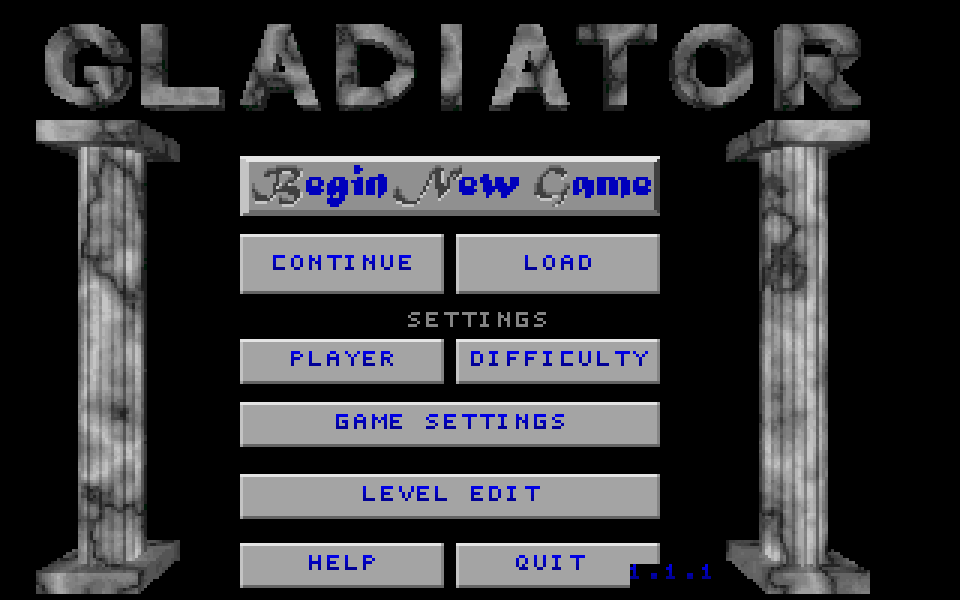
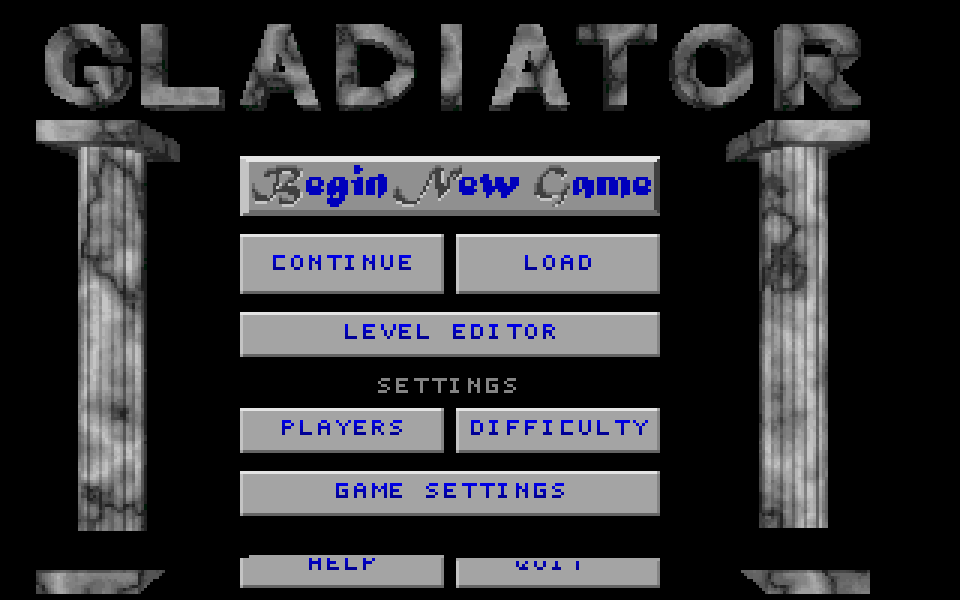
Refine main menu hierarchy

diff --git a/tests/e2e/wasm-game.spec.js b/tests/e2e/wasm-game.spec.js
@@ -266,9 +266,9 @@ async function openWebDisplayOptions(page) {
   await clickCanvasGameCoord(page, 10, 10);
 
   // Picker nav uses player 1's bindings: S/A/W and left Control, not browser
-  // arrow keys and Enter. From CONTINUE, PLAYER then GAME SETTINGS are two
-  // downward steps in the multiplayer web layout.
-  for (let i = 0; i < 2; ++i) {
+  // arrow keys and Enter. From CONTINUE, LEVEL EDITOR, PLAYERS, then GAME
+  // SETTINGS are three downward steps in the multiplayer web layout.
+  for (let i = 0; i < 3; ++i) {
     await pressPickerKey(page, 's');
   }
   await pressPickerKey(page, 'Control', 300);

diff --git a/src/interface/ui/menu_screen_specs.cpp b/src/interface/ui/menu_screen_specs.cpp
@@ -1042,23 +1042,20 @@ int main_menu_row_index(const button* buttons, int count, std::string_view id)
 // §2.1 nav rewire: CONTINUE (index 1) and LOAD (the appended row) share the
 // company gate, so the graph routes around them when no company exists. The
 // static graph is re-asserted when they are present, keeping the rewire
-// idempotent regardless of a prior frame's state. PLAYER and DIFFICULTY are
-// the two top-row settings buttons immediately below the pair.
+// idempotent regardless of a prior frame's state. LEVEL EDITOR is the first
+// stable row below the pair, so the absent-company shape routes through it.
 void main_menu_nav_rewire(button* buttons, int count, int& /*highlighted*/)
 {
     const int i_begin = main_menu_row_index(buttons, count, "begin_new_game");
     const int i_continue = main_menu_row_index(buttons, count, "continue_game");
-    const int i_player = main_menu_row_index(buttons, count, "player_settings");
-    const int i_difficulty = main_menu_row_index(buttons, count, "difficulty");
+    const int i_level_editor = main_menu_row_index(buttons, count, "level_edit");
 
     if (g_main_menu_company_view.present) {
         if (i_begin >= 0) buttons[i_begin].nav.down = i_continue;
-        if (i_player >= 0) buttons[i_player].nav.up = i_continue;
-        if (i_difficulty >= 0) buttons[i_difficulty].nav.up = i_continue;
+        if (i_level_editor >= 0) buttons[i_level_editor].nav.up = i_continue;
     } else {
-        if (i_begin >= 0) buttons[i_begin].nav.down = i_player;
-        if (i_player >= 0) buttons[i_player].nav.up = i_begin;
-        if (i_difficulty >= 0) buttons[i_difficulty].nav.up = i_begin;
+        if (i_begin >= 0) buttons[i_begin].nav.down = i_level_editor;
+        if (i_level_editor >= 0) buttons[i_level_editor].nav.up = i_begin;
     }
 }
 
@@ -1074,25 +1071,25 @@ constexpr MenuButtonSpec kMainMenuRowsMP[] = {
      .action = ButtonAction::CreateTeamMenu, .arg = -1,
      .nav = {.up = 0, .down = 2, .right = 8},
      .gate = {.gate = MenuGate::Custom, .custom = &main_menu_company_present}},
+    {.id = "level_edit", .label = "Level Editor",
+     .x = 80, .y = 104, .w = 140, .h = 15,
+     .action = ButtonAction::DoLevelEdit, .arg = -1,
+     .nav = {.up = 1, .down = 3}},
     // SETTINGS is a deliberate two-row group: the two compact session
     // categories share the first row, while the broader game/presentation
     // category gets the full-width second row.
-    {.id = "player_settings", .label = "PLAYER",
-     .x = 80, .y = 113, .w = 68, .h = 15,
+    {.id = "player_settings", .label = "PLAYERS",
+     .x = 80, .y = 136, .w = 68, .h = 15,
      .action = ButtonAction::MenuSpecRow, .arg = 2,
-     .nav = {.up = 1, .down = 4, .right = 3}},
+     .nav = {.up = 2, .down = 5, .right = 4}},
     {.id = "difficulty", .label = "DIFFICULTY",
-     .x = 152, .y = 113, .w = 68, .h = 15,
+     .x = 152, .y = 136, .w = 68, .h = 15,
      .action = ButtonAction::OpenDifficultyMenu, .arg = -1,
-     .nav = {.up = 1, .down = 4, .left = 2}},
+     .nav = {.up = 2, .down = 5, .left = 3}},
     {.id = "options", .label = "GAME SETTINGS",
-     .x = 80, .y = 134, .w = 140, .h = 15,
+     .x = 80, .y = 157, .w = 140, .h = 15,
      .action = ButtonAction::MainOptions, .arg = -1,
-     .nav = {.up = 2, .down = 5}},
-    {.id = "level_edit", .label = "Level Edit",
-     .x = 80, .y = 158, .w = 140, .h = 15,
-     .action = ButtonAction::DoLevelEdit, .arg = -1,
-     .nav = {.up = 4, .down = 6}},
+     .nav = {.up = 3, .down = 6}},
     {.id = "help", .label = "HELP",
      .x = 80, .y = 181, .w = 68, .h = 15,
      .action = ButtonAction::ShowHelp, .arg = -1,
@@ -1134,22 +1131,22 @@ constexpr MenuButtonSpec kMainMenuRowsNoMP[] = {
      .action = ButtonAction::CreateTeamMenu, .arg = -1,
      .nav = {.up = 0, .down = 2, .right = 8},
      .gate = {.gate = MenuGate::Custom, .custom = &main_menu_company_present}},
-    {.id = "player_settings", .label = "PLAYER",
-     .x = 80, .y = 113, .w = 68, .h = 15,
-     .action = ButtonAction::MenuSpecRow, .arg = 2,
-     .nav = {.up = 1, .down = 4, .right = 3}},
-    {.id = "difficulty", .label = "DIFFICULTY",
-     .x = 152, .y = 113, .w = 68, .h = 15,
-     .action = ButtonAction::OpenDifficultyMenu, .arg = -1,
-     .nav = {.up = 1, .down = 4, .left = 2}},
-    {.id = "options", .label = "GAME SETTINGS",
-     .x = 80, .y = 134, .w = 140, .h = 15,
-     .action = ButtonAction::MainOptions, .arg = -1,
-     .nav = {.up = 2, .down = 5}},
-    {.id = "level_edit", .label = "Level Edit",
-     .x = 80, .y = 158, .w = 140, .h = 15,
+    {.id = "level_edit", .label = "Level Editor",
+     .x = 80, .y = 104, .w = 140, .h = 15,
      .action = ButtonAction::DoLevelEdit, .arg = -1,
-     .nav = {.up = 4, .down = 6}},
+     .nav = {.up = 1, .down = 3}},
+    {.id = "player_settings", .label = "PLAYERS",
+     .x = 80, .y = 136, .w = 68, .h = 15,
+     .action = ButtonAction::MenuSpecRow, .arg = 2,
+     .nav = {.up = 2, .down = 5, .right = 4}},
+    {.id = "difficulty", .label = "DIFFICULTY",
+     .x = 152, .y = 136, .w = 68, .h = 15,
+     .action = ButtonAction::OpenDifficultyMenu, .arg = -1,
+     .nav = {.up = 2, .down = 5, .left = 3}},
+    {.id = "options", .label = "GAME SETTINGS",
+     .x = 80, .y = 157, .w = 140, .h = 15,
+     .action = ButtonAction::MainOptions, .arg = -1,
+     .nav = {.up = 3, .down = 6}},
     {.id = "help", .label = "HELP",
      .x = 80, .y = 181, .w = 68, .h = 15,
      .action = ButtonAction::ShowHelp, .arg = -1,
@@ -1219,9 +1216,9 @@ void main_menu_draw_content(void* /*screen_state*/)
         count++;
     }
 
-    // The category heading makes the asymmetric two-row settings group read
-    // as one unit instead of three unrelated main-menu actions.
-    game->text_normal.write_xy_center(160, 104, GREY, "%s", "SETTINGS");
+    // Center the category heading on the 140px menu column (x=80..220), not
+    // on the 320px canvas; the classic column art shifts this stack left.
+    game->text_normal.write_xy_center(150, 126, GREY, "%s", "SETTINGS");
 
     // On native builds, show the version number on the main menu. On
     // Emscripten/web builds the version is displayed elsewhere (the help UI).

diff --git a/tests/test_menu_engine.cpp b/tests/test_menu_engine.cpp
@@ -1744,16 +1744,16 @@ constexpr ExpectedSpecRow kMainMenuMPCommon[] = {
      ButtonAction::BeginMenu, 1, MenuNav{.down = 1}},
     {"continue_game", "CONTINUE", KEYSTATE_UNKNOWN, 80, 78, 68, 20,
      ButtonAction::CreateTeamMenu, -1, MenuNav{.up = 0, .down = 2, .right = 8}},
-    {"player_settings", "PLAYER", KEYSTATE_UNKNOWN, 80, 113, 68, 15,
+    {"level_edit", "Level Editor", KEYSTATE_UNKNOWN, 80, 104, 140, 15,
+     ButtonAction::DoLevelEdit, -1, MenuNav{.up = 1, .down = 3}},
+    {"player_settings", "PLAYERS", KEYSTATE_UNKNOWN, 80, 136, 68, 15,
      ButtonAction::MenuSpecRow, 2,
-     MenuNav{.up = 1, .down = 4, .right = 3}},
-    {"difficulty", "DIFFICULTY", KEYSTATE_UNKNOWN, 152, 113, 68, 15,
+     MenuNav{.up = 2, .down = 5, .right = 4}},
+    {"difficulty", "DIFFICULTY", KEYSTATE_UNKNOWN, 152, 136, 68, 15,
      ButtonAction::OpenDifficultyMenu, -1,
-     MenuNav{.up = 1, .down = 4, .left = 2}},
-    {"options", "GAME SETTINGS", KEYSTATE_UNKNOWN, 80, 134, 140, 15,
-     ButtonAction::MainOptions, -1, MenuNav{.up = 2, .down = 5}},
-    {"level_edit", "Level Edit", KEYSTATE_UNKNOWN, 80, 158, 140, 15,
-     ButtonAction::DoLevelEdit, -1, MenuNav{.up = 4, .down = 6}},
+     MenuNav{.up = 2, .down = 5, .left = 3}},
+    {"options", "GAME SETTINGS", KEYSTATE_UNKNOWN, 80, 157, 140, 15,
+     ButtonAction::MainOptions, -1, MenuNav{.up = 3, .down = 6}},
     {"help", "HELP", KEYSTATE_UNKNOWN, 80, 181, 68, 15,
      ButtonAction::ShowHelp, -1,
      MenuNav{.up = 5, .down = 0, .right = 7}},
@@ -1830,7 +1830,7 @@ TEST(MenuEngine, main_menu_registry_and_spec_shape)
     button* buttons = spec.buttons_accessor();
     const int count = spec.count_accessor();
     ASSERT_GT(count, 2);
-    EXPECT_EQ(4, picker_mainmenu_options_index());
+    EXPECT_EQ(5, picker_mainmenu_options_index());
     EXPECT_EQ("options", buttons[picker_mainmenu_options_index()].id);
     EXPECT_EQ("load_company", buttons[count - 2].id);
     EXPECT_EQ("no_company_note", buttons[count - 1].id);
@@ -1875,8 +1875,8 @@ TEST(MenuEngine, player_settings_registry_and_variant_shapes)
     // The main surface opens the nested screen through the engine's one
     // generic row action instead of burning another ButtonAction value.
     const og::ui::MenuScreenSpec& main = og::ui::main_menu_screen_spec_mp();
-    EXPECT_STREQ("player_settings", main.rows[2].id);
-    EXPECT_EQ(ButtonAction::MenuSpecRow, main.rows[2].action);
+    EXPECT_STREQ("player_settings", main.rows[3].id);
+    EXPECT_EQ(ButtonAction::MenuSpecRow, main.rows[3].action);
     EXPECT_NE(nullptr, main.on_spec_row);
 }
 
@@ -2043,14 +2043,14 @@ TEST(MenuEngine, main_menu_company_gate_and_nav_rewire)
     };
     const int i_begin = index_of("begin_new_game");
     const int i_continue = index_of("continue_game");
-    const int i_player_settings = index_of("player_settings");
+    const int i_level_editor = index_of("level_edit");
 
     // Absent: mimic the gate pass (mark the pair hidden), then rewire.
     for (auto& b : buttons)
         if (std::string_view(b.id) == "continue_game"
             || std::string_view(b.id) == "load_company")
             b.hidden = true;
-    int highlighted = i_player_settings;
+    int highlighted = i_level_editor;
     mp.nav.rewire(buttons.data(), count, highlighted);
     for (int i = 0; i < count; ++i) {
         if (buttons[i].hidden)
@@ -2063,8 +2063,8 @@ TEST(MenuEngine, main_menu_company_gate_and_nav_rewire)
                 << buttons[i].id << " must not nav into a hidden row";
         }
     }
-    EXPECT_EQ(i_player_settings, buttons[i_begin].nav.down)
-        << "begin.down routes past the hidden pair to PLAYER SETTINGS";
+    EXPECT_EQ(i_level_editor, buttons[i_begin].nav.down)
+        << "begin.down routes past the hidden pair to LEVEL EDITOR";
 
     // Present again: the rewire re-asserts begin.down -> continue_game.
     og::ui::set_main_menu_company_view_for_tests(true, "");

diff --git a/tests/test_menu_pins.cpp b/tests/test_menu_pins.cpp
@@ -103,18 +103,18 @@ static const ExpectedButton kExpectedMainMenu[] = {
     {"continue_game", "CONTINUE", KEYSTATE_UNKNOWN, 80, 78, 68, 20,
      button_action_id(ButtonAction::CreateTeamMenu), -1,
      MenuNav{.up = 0, .down = 2, .right = 8}},
-    {"player_settings", "PLAYER", KEYSTATE_UNKNOWN, 80, 113, 68, 15,
-     button_action_id(ButtonAction::MenuSpecRow), 2,
-     MenuNav{.up = 1, .down = 4, .right = 3}},
-    {"difficulty", "DIFFICULTY", KEYSTATE_UNKNOWN, 152, 113, 68, 15,
-     button_action_id(ButtonAction::OpenDifficultyMenu), -1,
-     MenuNav{.up = 1, .down = 4, .left = 2}},
-    {"options", "GAME SETTINGS", KEYSTATE_UNKNOWN, 80, 134, 140, 15,
-     button_action_id(ButtonAction::MainOptions), -1,
-     MenuNav{.up = 2, .down = 5}},
-    {"level_edit", "Level Edit", KEYSTATE_UNKNOWN, 80, 158, 140, 15,
+    {"level_edit", "Level Editor", KEYSTATE_UNKNOWN, 80, 104, 140, 15,
      button_action_id(ButtonAction::DoLevelEdit), -1,
-     MenuNav{.up = 4, .down = 6}},
+     MenuNav{.up = 1, .down = 3}},
+    {"player_settings", "PLAYERS", KEYSTATE_UNKNOWN, 80, 136, 68, 15,
+     button_action_id(ButtonAction::MenuSpecRow), 2,
+     MenuNav{.up = 2, .down = 5, .right = 4}},
+    {"difficulty", "DIFFICULTY", KEYSTATE_UNKNOWN, 152, 136, 68, 15,
+     button_action_id(ButtonAction::OpenDifficultyMenu), -1,
+     MenuNav{.up = 2, .down = 5, .left = 3}},
+    {"options", "GAME SETTINGS", KEYSTATE_UNKNOWN, 80, 157, 140, 15,
+     button_action_id(ButtonAction::MainOptions), -1,
+     MenuNav{.up = 3, .down = 6}},
     {"help", "HELP", KEYSTATE_UNKNOWN, 80, 181, 68, 15,
      button_action_id(ButtonAction::ShowHelp), -1,
      MenuNav{.up = 5, .down = 0, .right = 7}},
@@ -144,7 +144,8 @@ TEST(MenuEnginePins, mainmenu_exact_table)
     // appended tail; GAME SETTINGS is the full-width settings-group row.
     ASSERT_EQ("no_company_note", buttons[count - 1].id);
     ASSERT_EQ("load_company", buttons[count - 2].id);
-    ASSERT_EQ("options", buttons[4].id);
+    ASSERT_EQ("level_edit", buttons[2].id);
+    ASSERT_EQ("options", buttons[5].id);
     ASSERT_EQ("help", buttons[6].id);
     ASSERT_EQ("quit", buttons[7].id);
 }

diff --git a/tests/test_menu_layout.cpp b/tests/test_menu_layout.cpp
@@ -199,18 +199,22 @@ TEST(MenuLayout, mainmenu_buttons_no_overlap)
     // Primary actions retain the established 6px gap.
     EXPECT_EQ(6, buttons[1].y - (buttons[0].y + buttons[0].sizey));
 
+    // LEVEL EDITOR is the next primary action at the standard 6px gap.
+    EXPECT_EQ("level_edit", buttons[2].id);
+    EXPECT_EQ(6, buttons[2].y - (buttons[1].y + buttons[1].sizey));
+
     // SETTINGS: equal compact top-row faces, a 4px gutter, then a centered
     // full-width GAME SETTINGS face with the normal 6px vertical gap.
-    EXPECT_EQ("player_settings", buttons[2].id);
-    EXPECT_EQ("difficulty", buttons[3].id);
-    EXPECT_EQ(buttons[2].y, buttons[3].y);
-    EXPECT_EQ(buttons[2].sizex, buttons[3].sizex);
-    EXPECT_EQ(4, buttons[3].x - (buttons[2].x + buttons[2].sizex));
-    EXPECT_EQ("options", buttons[4].id);
-    EXPECT_EQ(buttons[2].x, buttons[4].x);
-    EXPECT_EQ(buttons[3].x + buttons[3].sizex,
-              buttons[4].x + buttons[4].sizex);
-    EXPECT_EQ(6, buttons[4].y - (buttons[2].y + buttons[2].sizey));
+    EXPECT_EQ("player_settings", buttons[3].id);
+    EXPECT_EQ("difficulty", buttons[4].id);
+    EXPECT_EQ(buttons[3].y, buttons[4].y);
+    EXPECT_EQ(buttons[3].sizex, buttons[4].sizex);
+    EXPECT_EQ(4, buttons[4].x - (buttons[3].x + buttons[3].sizex));
+    EXPECT_EQ("options", buttons[5].id);
+    EXPECT_EQ(buttons[3].x, buttons[5].x);
+    EXPECT_EQ(buttons[4].x + buttons[4].sizex,
+              buttons[5].x + buttons[5].sizex);
+    EXPECT_EQ(6, buttons[5].y - (buttons[3].y + buttons[3].sizey));
 
     // HELP and QUIT are a stable, aligned footer pair.
     EXPECT_EQ("help", buttons[6].id);
@@ -218,6 +222,7 @@ TEST(MenuLayout, mainmenu_buttons_no_overlap)
     EXPECT_EQ(buttons[6].y, buttons[7].y);
     EXPECT_EQ(buttons[6].sizex, buttons[7].sizex);
     EXPECT_EQ(4, buttons[7].x - (buttons[6].x + buttons[6].sizex));
+    EXPECT_EQ(9, buttons[6].y - (buttons[5].y + buttons[5].sizey));
 }
 
 TEST(MenuLayout, player_settings_buttons_are_centered_and_reachable)

diff --git a/tests/test_menu_model.cpp b/tests/test_menu_model.cpp
@@ -32,6 +32,11 @@ TEST(MenuModel, main_definition_and_lookup)
     ASSERT_TRUE(begin != nullptr) << "begin_new_game id should resolve";
     ASSERT_EQ(static_cast<int>(PickerMenuCommand::BeginNewGame), static_cast<int>(begin->command)) << "begin_new_game should map to BeginNewGame command";
 
+    const PickerMenuItem* level_editor =
+        find_picker_menu_item(PickerMenuId::Main, "level_edit");
+    ASSERT_NE(nullptr, level_editor);
+    EXPECT_EQ("Level Editor", level_editor->label);
+
     const PickerMenuItem* networking = find_picker_menu_item(PickerMenuId::Main, "networking");
     ASSERT_TRUE(networking == nullptr) << "networking should now live in the team build menu";
 

diff --git a/src/interface/ui/menu_model.cpp b/src/interface/ui/menu_model.cpp
@@ -24,7 +24,7 @@ constexpr std::array<PickerMenuItem, 13> kMainMenuItems = {{
     // (kDifficultyMenuItems below); the in-place cycle moved in there.
     {"difficulty", "Difficulty", PickerMenuCommand::OpenDifficultyMenu},
     {"pvp_allied", "PVP Mode", PickerMenuCommand::ToggleAlliedMode},
-    {"level_edit", "Level Edit", PickerMenuCommand::LevelEdit},
+    {"level_edit", "Level Editor", PickerMenuCommand::LevelEdit},
     {"options", "Game Settings", PickerMenuCommand::Options},
     // HELP and QUIT are separate, stable footer actions on the graphical
     // menu. Text clients expose both too; the browser's disabled QUIT face

diff --git a/src/platform/curses/curses_picker_client.cpp b/src/platform/curses/curses_picker_client.cpp
@@ -788,7 +788,7 @@ void CursesPickerClient::handle_menu_item(PickerMenuId menu_id,
             autosave_company_after_mutation(save_data_);
             break;
         case PickerMenuCommand::LevelEdit:
-            menu.show_text("Level Edit",
+            menu.show_text("Level Editor",
                 {"The level editor is not available in the curses client.",
                  "Use the standalone 'openscen' tool instead."});
             break;

diff --git a/src/platform/text/text_picker.cpp b/src/platform/text/text_picker.cpp
@@ -655,7 +655,7 @@ private:
             autosave_company_after_mutation();
             break;
         case PickerMenuCommand::LevelEdit:
-            std::printf("Level Edit is not available in the headless text client.\n");
+            std::printf("Level Editor is not available in the headless text client.\n");
             break;
         default:
             break;

diff --git a/docs/menu-engine.md b/docs/menu-engine.md
@@ -22,7 +22,7 @@ window. Keep this table in sync with the registry:
 | PLAYER SETTINGS | **Engine** | `player_settings_menu_screen_spec()` from the main-menu door — local player-count selector, PVP relationship, the CONTROLS door, and RESET CONTROLS; multiplayer-disabled builds retain the latter two |
 | CONTROLS | **Engine** | `control_options_menu_screen_spec()` via `main_controls_options()` from PLAYER SETTINGS; its wrapper persists control modes/keymaps on exit |
 | GAME SETTINGS | **Engine** | `main_options_menu_screen_spec()` via `main_options()` — sound, display, effects, and RESTORE SETTINGS; the reset preserves player controls and the wrapper keeps the family-wide cfg-persist exit epilogue |
-| Main menu | **Engine** | `main_menu_screen_spec()` via `mainmenu()` — one centered primary stack shared by the §1.6 MP/no-MP spec pair; a labeled 2+1 SETTINGS group (PLAYER / DIFFICULTY over GAME SETTINGS); stable HELP / QUIT footer with build-gated enabled/disabled QUIT; `FadeWithInitialDraw` entry, MainScope remote-start with `BreakWithSelection`, and the G14 full-re-vdisplay content hook |
+| Main menu | **Engine** | `main_menu_screen_spec()` via `mainmenu()` — one centered primary stack shared by the §1.6 MP/no-MP spec pair; LEVEL EDITOR immediately below CONTINUE / LOAD; a centered 2+1 SETTINGS group (PLAYERS / DIFFICULTY over GAME SETTINGS); stable HELP / QUIT footer with build-gated enabled/disabled QUIT; `FadeWithInitialDraw` entry, MainScope remote-start with `BreakWithSelection`, and the G14 full-re-vdisplay content hook |
 | Team build (base camp) | **Engine** | `team_build_menu_screen_spec()` via `create_team_menu()` — the §2.5 command roster (WP4), regridded per §9.5.1 then §9.10.1 to 9 deploy/row-body pairs at the 15px save-slot pitch over a PageModel window (round 2 trades the tenth row for clear margins around the roster block; §9.11 round 2 deletes the TRAIN column — the row BODY `roster_row_r` (26,y,208,10), a label-less `no_draw` hit zone at the old train ordinals 9..17, opens the train screen seeded on that character, `default_highlight` = row 0's body so Enter trains from the entry highlight — the curses roster grammar), MenuSpecRow dispatch, the legacy-action command strip, GO host-gating inside the full-graph rewire, `FadeAroundEntry`, and the level-reload guard + §3.3 row refresh in `frame_tick` (entered at -1 so the first frame always reloads). Networked shape (WP4 mp-columns): the display list is the MERGED lobby roster (`collect_base_camp_display_slots` — own rows first from the private save, then foreign machines' replicated slots), the rewire widens foreign dep buttons into (8,y,212,10) `no_draw` hit zones (click ⇒ OWNED BY popup) and hides their row-body train zones (the widened dep zone IS the foreign row click), the draw pass swaps CLASS/EXP for the 16-char COMPANY column and the §9.12 session-status line B (role + room code + machine/player census — `HOSTING <room> - n MACH / p PLYR` for the elected host, `IN <room> - HOST: <company>` for joiners — with the degraded-link `connection_alert` keeping slot+color precedence; the round-1 READY/DEP counts are superseded by the §2.6 GO/READY button states), and the deploy dispatch carries the client-side 24-cap guard; the page window derives from the display size, so >24 replicated slots just grow the page count. §2.6 GO/READY slot (WP4 ready-go-slot): the READY twin shares GO's exact rect (row 25, `ToggleLobbyReady` with the twin's index as arg — the TEAMS mirror keeps arg −1) with mutually exclusive gates (host ⇒ GO, networked joiner ⇒ READY — the gate-lattice sweep's same-geometry allowance case); per-frame `MenuColorFormatter`/`LabelBinding` re-derive face + label from `picker_compute_ready_go_presentation()` (pure table: `format_ready_go_button`, faces 13/93/61 + the U1-fallback RED 40 — face 45 failed the recorded contrast check), the rewire stamps the same values for the entry compose, `go_menu` pre-checks §2.6 state 3 (WAITING FOR / NO ONE IS DEPLOYED popups, no request sent) and renders async `last_start_denial` echoes, and solo GO stays grey byte-identical; the curses lobby `r` key runs the same §2.6 client ready gate (caption surfaced as a status line) |
 | View team | **RETIRED** (§2.5) | the base-camp roster IS the team view; `create_view_menu`/its spec/`MenuScreenId::ViewTeam` are gone (the in-game `view_team()` draw helper in picker.cpp survives for the gameplay HUD) |
 | Save/Load slots | **RETIRED** (§3.8) | saving is automatic on every base-camp mutation + level win; loading is the §2.3 Company List. `DoSave`/`DoLoad`/`CreateSaveMenu` actions are no-ops; `CreateLoadMenu` survives only as the intercepted main-menu LOAD door |

diff --git a/docs/company-basecamp-design.md b/docs/company-basecamp-design.md
@@ -503,10 +503,10 @@ Change vs picker.cpp:1516-1534: split `continue_game` (80,75,140,20) into a side
 |   [title.png]                                          [title.png]             |
 |  col |        [##### BEGIN NEW GAME (pixel art) #####]  (y=52)      | col     |
 |      |        [ CONTINUE ]           [   LOAD   ]       (y=78)      |         |
-|      |                       SETTINGS                (y=104)         |         |
-|      |        [  PLAYER  ]           [DIFFICULTY]      (y=113)      |         |
-|      |        [---------- GAME SETTINGS -----------]   (y=134)      |         |
-|      |        [------------- LEVEL EDIT -----------]   (y=158)      |         |
+|      |        [------------ LEVEL EDITOR ----------]   (y=104)      |         |
+|      |                      SETTINGS                 (y=126)         |         |
+|      |        [ PLAYERS  ]           [DIFFICULTY]      (y=136)      |         |
+|      |        [---------- GAME SETTINGS -----------]   (y=157)      |         |
 |      |        [   HELP   ]           [   QUIT   ]      (y=181)      |         |
 +--------------------------------------------------------------------------------+
 ```
@@ -515,10 +515,10 @@ Change vs picker.cpp:1516-1534: split `continue_game` (80,75,140,20) into a side
 |---|---|---|---|---|---|
 | 0 | begin_new_game | (80,52,140,20) | "" (art) | — | routes to §2.2 |
 | 1 | continue_game | (80,78,68,20) | `CONTINUE` | 8/10 | opens most-recent company |
-| 2 | player_settings | (80,113,68,15) | `PLAYER` | 6/10 | opens PLAYER SETTINGS |
-| 3 | difficulty | (152,113,68,15) | `DIFFICULTY` | 10/10 | opens DIFFICULTY |
-| 4 | options | (80,134,140,15) | `GAME SETTINGS` | 13/22 | opens GAME SETTINGS; legacy internal id retained |
-| 5 | level_edit | (80,158,140,15) | `LEVEL EDIT` | 10/22 | separate from the settings group |
+| 2 | level_edit | (80,104,140,15) | `LEVEL EDITOR` | 12/22 | separate from the settings group |
+| 3 | player_settings | (80,136,68,15) | `PLAYERS` | 7/10 | opens PLAYER SETTINGS |
+| 4 | difficulty | (152,136,68,15) | `DIFFICULTY` | 10/10 | opens DIFFICULTY |
+| 5 | options | (80,157,140,15) | `GAME SETTINGS` | 13/22 | opens GAME SETTINGS; legacy internal id retained |
 | 6 | help | (80,181,68,15) | `HELP` | 4/10 | present on native and web |
 | 7 | quit | (152,181,68,15) | `QUIT` | 4/10 | native enabled; web visible but Disabled |
 | 8 (appended) | load_company | (152,78,68,20) | `LOAD` | 4/10 | opens Company List (§2.3) |
@@ -527,13 +527,13 @@ Change vs picker.cpp:1516-1534: split `continue_game` (80,75,140,20) into a side
   company state, and the reclaimed band gives the three settings one clear hierarchy.
 - Gating: `continue_game` + `load_company` hidden when zero company files exist;
   `NO COMPANY YET` occupies their shared envelope; per-frame visibility sync rewires
-  both top-row settings buttons around the hidden pair.
+  Begin and Level Editor around the hidden pair.
 - **Nav (materialized indices)**: begin.down→continue(1); continue{up begin,
-  down player(2), right load(8)}; load{up begin, down player, left continue};
-  player↔difficulty across the compact row and both down→game-settings(4);
-  game-settings→level-edit(5)→help(6); help↔quit(7); either footer action
-  down→begin. With no company, begin.down→player and both compact settings
-  buttons route up→begin around the hidden CONTINUE/LOAD pair.
+  down level-editor(2), right load(8)}; load{up begin, down level-editor,
+  left continue}; level-editor→players(3); players↔difficulty(4) across the
+  compact row and both down→game-settings(5); game-settings→help(6);
+  help↔quit(7); either footer action down→begin. With no company,
+  begin.down→level-editor and level-editor.up→begin around the hidden pair.
 - Continue failure: popup with `save_error_string`, then open Company List. Corrupt
   most-recent company: see §3.5 — Continue never silently opens a different company.
 - Hotkeys unchanged. Begin New Game ALWAYS creates a fresh company — the old "restart?"
@@ -1830,7 +1830,7 @@ under the corrected formula. Recapture every screen.
      myfun/myfunc zeroed = keyboard-dead, click no-ops with the
      `menu_engine/disabled_row_click` TRACE).
    - nav: all links −1; NOTHING links into it in either variant — keyboard
-     flows route from Begin directly to PLAYER when CONTINUE/LOAD are hidden.
+     flows route from Begin directly to LEVEL EDITOR when CONTINUE/LOAD are hidden.
      The note is inert chrome: it is EXEMPT from any every-visible-button-
      reachable assertion (add a Disabled-exemption arm to the helper if one
      asserts it).
